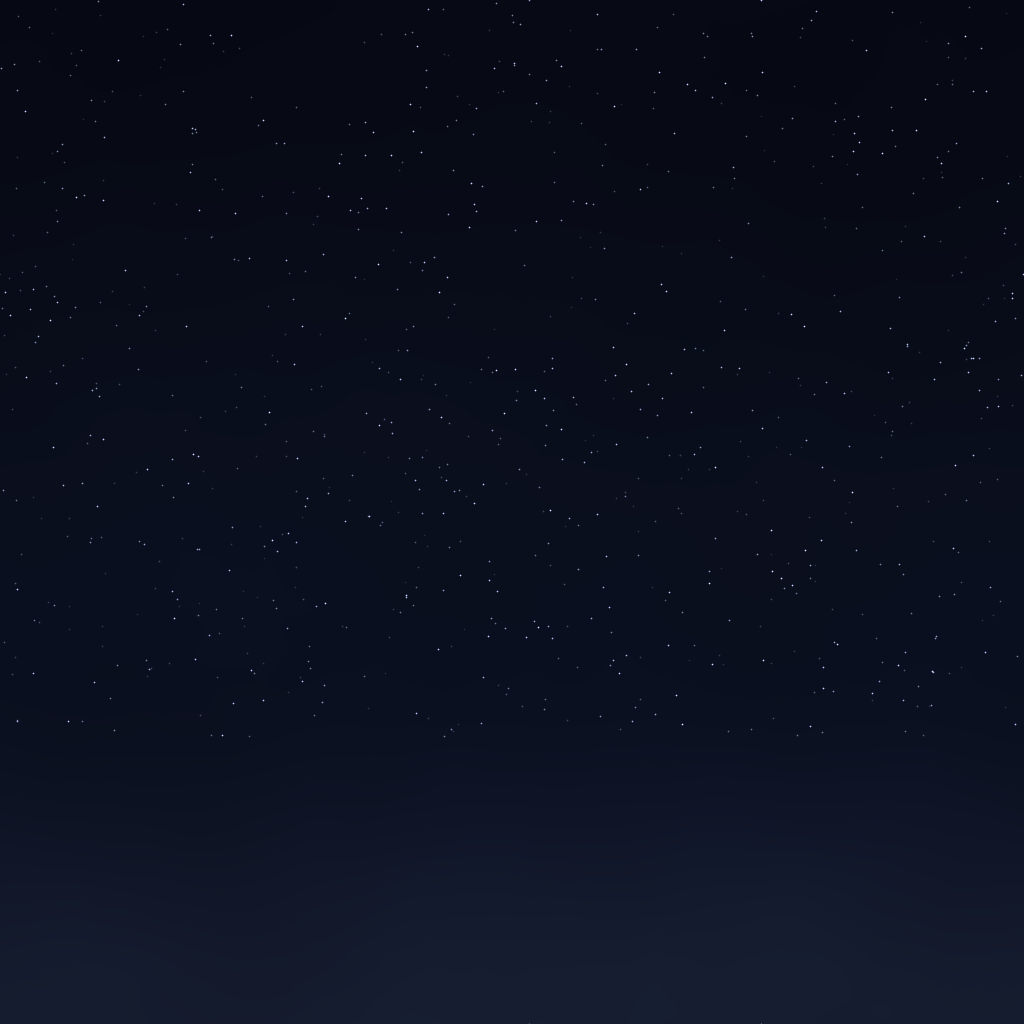
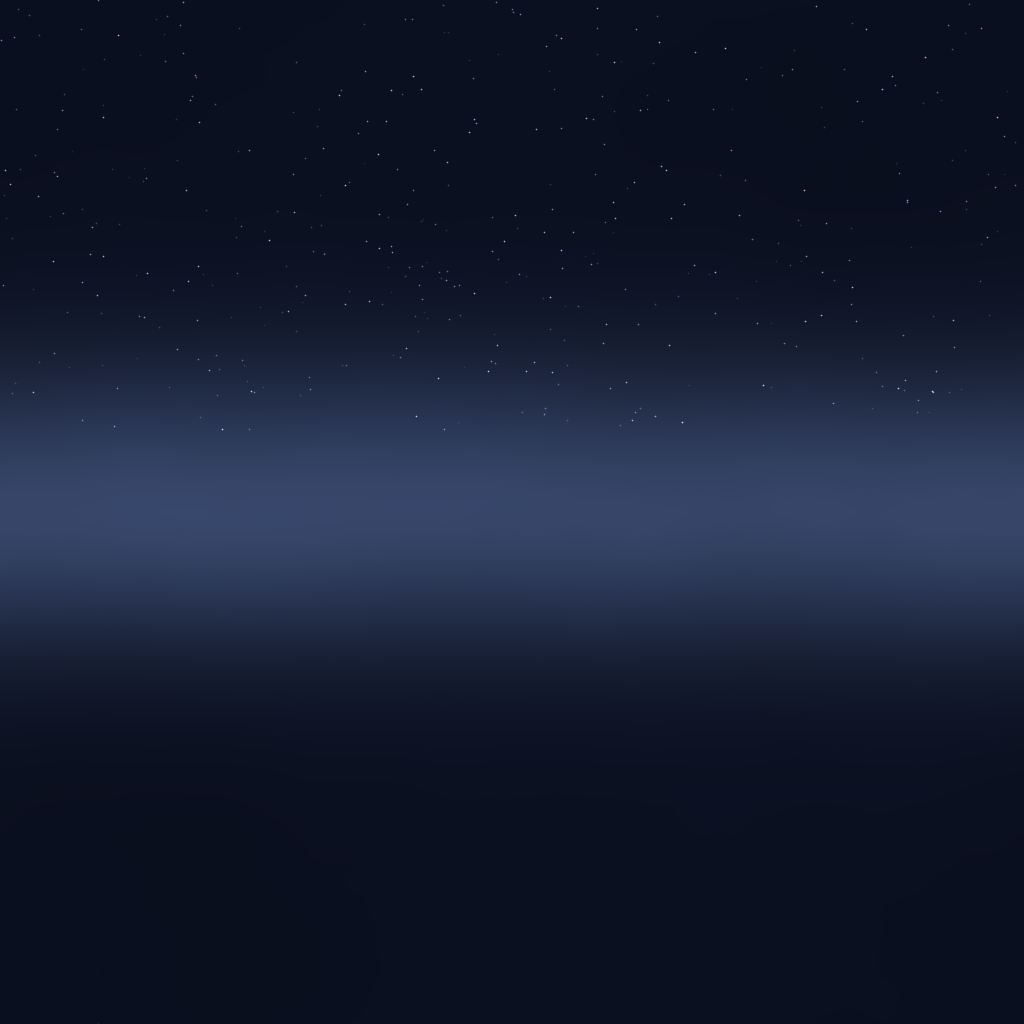
Linajes: noche del rincon probada en Studio
Cielo nocturno por paneles (de noche Roblox apaga el skybox) con
resplandor de niebla en el horizonte y estrellas tenues, niebla 0.35,
piso y cantos oscuros, marcas del piso apagadas, agua mas oscura.
Capturas nuevas en arte/renders.

diff --git a/linajes/arte/scripts/efectos/texturas_rincon.py b/linajes/arte/scripts/efectos/texturas_rincon.py
@@ -88,23 +88,23 @@ def estrellas(c, cantidad, fuerza, alto=1.0):
 
 
 def cielo():
-    """Noche de verdad: azul casi negro (#0b1020) y un poco mas claro en el horizonte."""
+    """Noche de verdad: cenit azul casi negro (#0b1020) y niebla azul en el horizonte.
+    En un skybox el horizonte cae en el MEDIO de la cara: el resplandor va en y=0,5."""
     y = np.linspace(0, 1, T, dtype=np.float32)[:, None] * np.ones((1, T), np.float32)
-    arriba = np.array([7, 10, 20], np.float32)
-    medio = np.array([11, 16, 32], np.float32)
-    horizonte = np.array([22, 29, 48], np.float32)
-    t = paso(0.0, 0.6, y)[..., None]
-    h = paso(0.66, 1.0, y)[..., None]
-    c = arriba * (1 - t) + medio * t
-    c = c * (1 - h) + horizonte * h
-    c *= (0.92 + 0.16 * ruido(3))[..., None]
-    c = estrellas(c, 900, 1.0, 0.72)
+    cenit = np.array([11, 16, 32], np.float32)
+    niebla = np.array([56, 72, 108], np.float32)
+    # Resplandor de niebla centrado en el horizonte (y = 0,5), que se apaga hacia arriba.
+    glow = np.exp(-(((y - 0.5) / 0.14) ** 2))
+    bajo = paso(0.5, 0.95, y)  # debajo del horizonte, agua: se apaga
+    c = cenit + (niebla - cenit) * (glow * (1 - 0.7 * bajo))[..., None]
+    c *= (0.94 + 0.12 * ruido(3))[..., None]
+    c = estrellas(c, 420, 0.75, 0.42)
     Image.fromarray(np.clip(c, 0, 255).astype(np.uint8)).save(SALIDA / "cielo.png")
-    a = np.ones((T, T, 3), np.float32) * np.array([6, 9, 18], np.float32)
-    a *= (0.92 + 0.16 * ruido(3))[..., None]
-    a = estrellas(a, 1100, 1.1)
+    a = np.ones((T, T, 3), np.float32) * np.array([10, 14, 28], np.float32)
+    a *= (0.94 + 0.12 * ruido(3))[..., None]
+    a = estrellas(a, 700, 0.8)
     Image.fromarray(np.clip(a, 0, 255).astype(np.uint8)).save(SALIDA / "cielo-arriba.png")
-    b = np.ones((64, 64, 3), np.uint8) * np.array([8, 11, 20], np.uint8)
+    b = np.ones((64, 64, 3), np.uint8) * np.array([9, 12, 22], np.uint8)
     Image.fromarray(b).save(SALIDA / "cielo-abajo.png")
 
 

diff --git a/linajes/boveda/08 Lugares/Arena del sandbox.md b/linajes/boveda/08 Lugares/Arena del sandbox.md
@@ -37,4 +37,6 @@ Pedido de Juani: lo técnico lo hace Claude, las posiciones las acomoda él a ma
 - **Farolas:** la lámpara es chica y emite poco; la luz la hace un `SpotLight` hacia abajo con cono de 72°.
 - **Ventana:** el vidrio cálido ahora tiene marco y cruz, y está en la pared del galpón. Los contenedores no llevan ninguna luz.
 - **Cámara:** `FieldOfView` 70 (`Config.Mundo.Camara.FOV`, lo pone `client/Camara.client.luau`).
+- **Cielo de noche:** Roblox apaga el skybox cuando es de noche, así que el cielo lo siguen dibujando los paneles de `CieloArena.client.luau` (que siguen a la cámara), ahora con la textura nocturna: azul casi negro, estrellas tenues y el resplandor de niebla centrado en el horizonte (en un skybox el horizonte cae en el MEDIO de la cara).
+- **Linea blanca del muelle:** era el canto del piso de la arena, que estaba en blanco con la textura solo arriba. Ahora el piso es `#2b2f36` y las marcas amarillas del piso están apagadas (`#6b5520`).
 - **Carpeta:** las piezas van a `workspace.Rincon`. Si esa carpeta ya existe en el place, el script no toca nada: manda lo que acomodó Juani. El armado vive en `server/RinconArmar.luau`.
